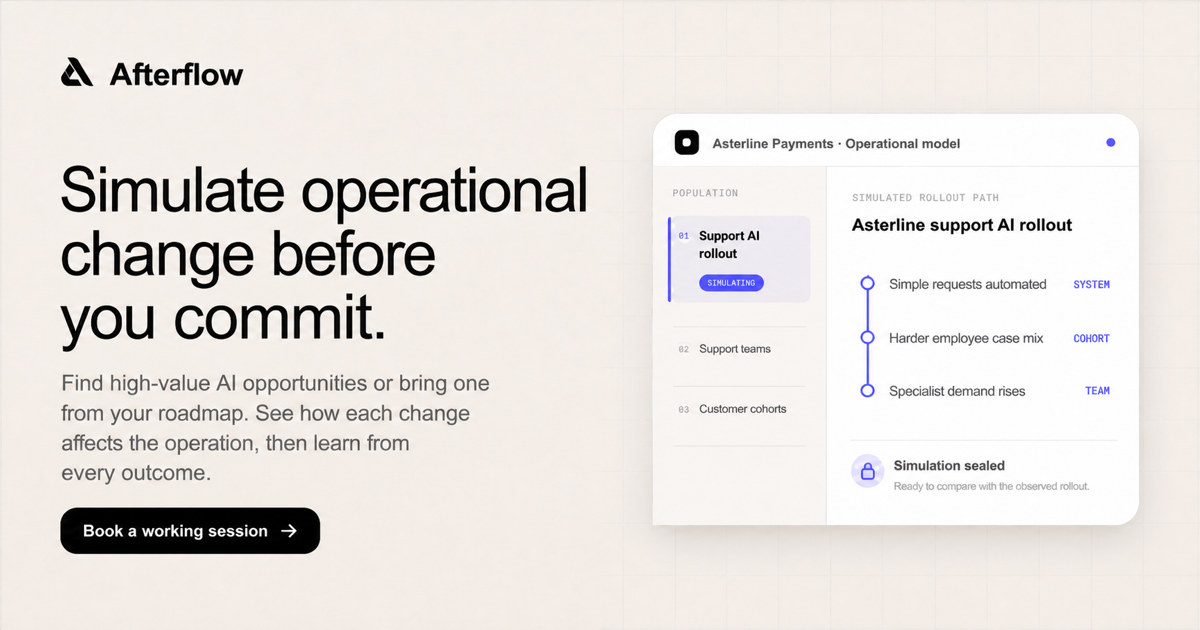
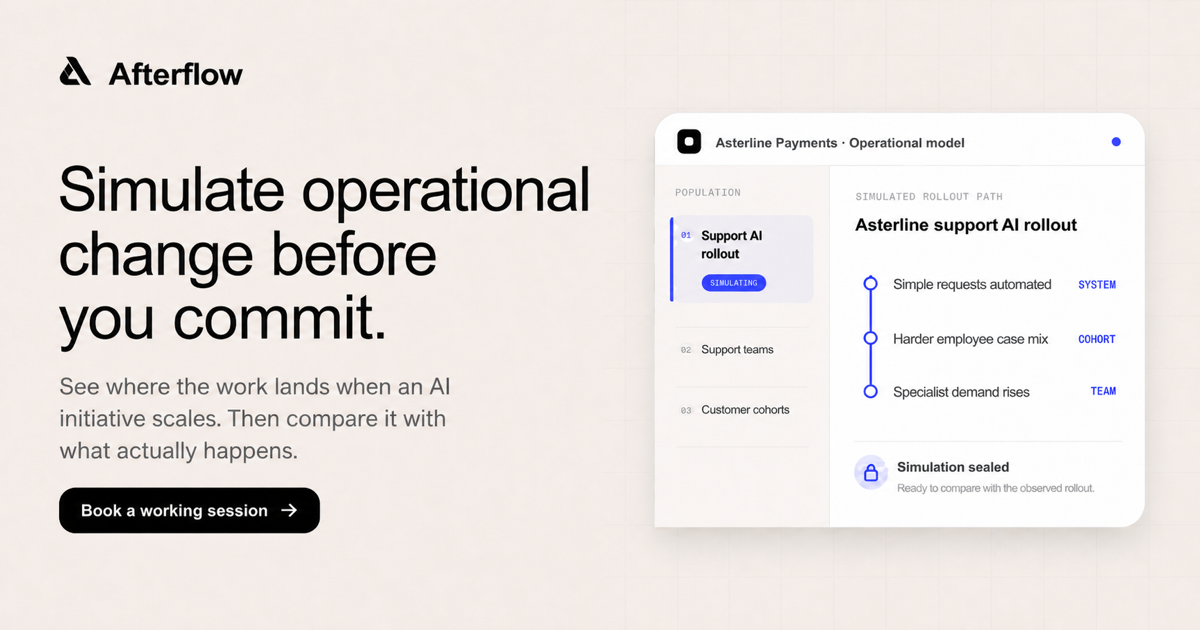
improvements

diff --git a/app/components/landing/hero.tsx b/app/components/landing/hero.tsx
@@ -45,25 +45,25 @@ const modelLinks = [
 const opportunities = [
   {
     title: "Release Support AI beyond UAT",
-    value: "$0.5m–$0.9m",
+    value: "High",
     evidence: "High evidence",
-    payback: "32-day payback",
+    basis: "Current support volume",
     risk: "Moderate rollout risk",
     source: "Afterflow",
   },
   {
     title: "Payment exception routing",
-    value: "$760k",
+    value: "High",
     evidence: "High evidence",
-    payback: "18-day payback",
+    basis: "Current exception volume",
     risk: "Low rollout risk",
     source: "Your team",
   },
   {
     title: "Merchant onboarding review",
-    value: "$420k",
+    value: "Medium",
     evidence: "Medium evidence",
-    payback: "41-day payback",
+    basis: "Current review volume",
     risk: "Moderate rollout risk",
     source: "Afterflow",
   },
@@ -188,9 +188,14 @@ function OpportunityScreen() {
           </p>
         </div>
         <div className="mt-3 flex items-center justify-between gap-3 rounded-lg border border-black/8 bg-white px-3 py-2.5">
-          <p className="truncate text-xs text-black/38">
-            Initiative already on your roadmap?
-          </p>
+          <div className="min-w-0">
+            <p className="truncate text-xs font-medium text-black/58">
+              Start with your own initiative
+            </p>
+            <p className="mt-0.5 hidden truncate text-[0.6rem] text-black/32 sm:block">
+              Rank it alongside opportunities Afterflow finds.
+            </p>
+          </div>
           <span className="metric shrink-0 rounded-md bg-[#11110f] px-2.5 py-1.5 text-[0.48rem] uppercase tracking-[0.07em] text-white/82">
             + Add initiative
           </span>
@@ -221,7 +226,7 @@ function OpportunityScreen() {
                     {opportunity.source}
                   </span>
                   <span className="text-[0.62rem] leading-4 text-black/38">
-                    {opportunity.evidence} · {opportunity.payback} · {opportunity.risk}
+                    {opportunity.evidence} · {opportunity.basis} · {opportunity.risk}
                   </span>
                 </div>
                 {index === 0 ? (
@@ -239,12 +244,12 @@ function OpportunityScreen() {
               <p className="metric text-right text-sm text-black/68 sm:text-base">
                 {opportunity.value}
                 <span className="mt-1 block text-[0.46rem] uppercase tracking-[0.08em] text-black/28">
-                  value
+                  potential
                 </span>
               </p>
               {index === 0 && showWhy ? (
                 <p className="col-span-full border-t border-black/8 pt-3 text-xs leading-5 text-black/48 sm:ml-8">
-                  Highest expected operational value after adjusting for
+                  Highest expected operational impact after adjusting for
                   implementation effort, confidence and downstream risk.
                 </p>
               ) : null}
@@ -257,17 +262,17 @@ function OpportunityScreen() {
           Why it ranks first
         </p>
         <h3 className="mt-3 text-base font-medium text-black/74">
-          Best balance of value and confidence.
+          Best balance of impact and confidence.
         </h3>
         <p className="mt-2 text-xs leading-5 text-black/42">
-          High expected value with a staged, reversible rollout.
+          High expected impact with a staged, reversible rollout.
         </p>
         <div className="mt-6 border-t border-black/8 pt-5">
           <p className="metric text-[0.49rem] uppercase tracking-[0.1em] text-black/30">
             Ranking inputs
           </p>
           <ul className="mt-3 space-y-3 text-xs text-black/52">
-            <li>$0.5m–$0.9m value · 32-day payback</li>
+            <li>High potential at current support volume</li>
             <li>High evidence</li>
             <li>Moderate rollout risk</li>
           </ul>
@@ -576,8 +581,8 @@ export function Hero() {
             Simulate operational change before you commit.
           </h1>
           <p className="mt-6 max-w-[37rem] text-lg leading-7 text-black/58 sm:text-xl sm:leading-8">
-            Find the right AI opportunity. Predict what happens. Compare with
-            reality.
+            See where the work lands when an AI initiative scales. Then compare
+            it with what actually happens.
           </p>
           <div className="mt-8">
             <a href={bookingUrl} target="_blank" rel="noreferrer" className="primary-button group">

diff --git a/app/lib/site.ts b/app/lib/site.ts
@@ -26,10 +26,10 @@ export const companyLegalName = "Afterflow Inc.";
 export const siteTitle =
   "Afterflow | Simulate the Operational Impact of AI";
 export const siteDescription =
-  "Find high-value AI opportunities or bring one already on your roadmap. See how each change affects teams, systems and customers, then learn from every outcome.";
+  "See where the work lands when an AI initiative scales. Bring one from your roadmap or let Afterflow find one, then compare it with reality.";
 export const socialTitle = "Simulate operational change before you commit.";
 export const socialDescription =
-  "Find high-value AI opportunities or bring one from your roadmap. See how each change affects the operation, then learn from every outcome.";
+  "See where the work lands when an AI initiative scales. Then compare it with what actually happens.";
 
 export const contactEmail =
   process.env.NEXT_PUBLIC_CONTACT_EMAIL?.trim() || "mika@afterflow.dev";

diff --git a/app/components/landing/final-cta.tsx b/app/components/landing/final-cta.tsx
@@ -30,7 +30,8 @@ export function FinalCta() {
           See what happens before launch.
         </h2>
         <p className="mx-auto mt-7 max-w-[46rem] text-lg leading-8 text-white/56 sm:text-xl">
-          Bring one initiative. We build the model and run it with you.
+          Bring an initiative from your roadmap or let Afterflow find one. We
+          model and run it with you.
         </p>
         <div className="mt-9 flex justify-center">
           <a

diff --git a/app/components/landing/proof-section.tsx b/app/components/landing/proof-section.tsx
@@ -109,7 +109,7 @@ export function ProofSection() {
               causal path on every run, with each step tied to source evidence,
               and scored{" "}
               <strong className="font-medium text-black/86">
-                27% higher than the best-performing alternative.
+                almost 50% higher than the best-performing alternative.
               </strong>
             </p>
           </div>

diff --git a/app/components/landing/product-loop.tsx b/app/components/landing/product-loop.tsx
@@ -7,7 +7,7 @@ const loopSteps = [
   {
     number: "02",
     title: "Rank",
-    body: "Prioritise changes by expected value, evidence and downstream risk.",
+    body: "Rank opportunities Afterflow finds or initiatives your team brings by expected value and risk.",
   },
   {
     number: "03",
